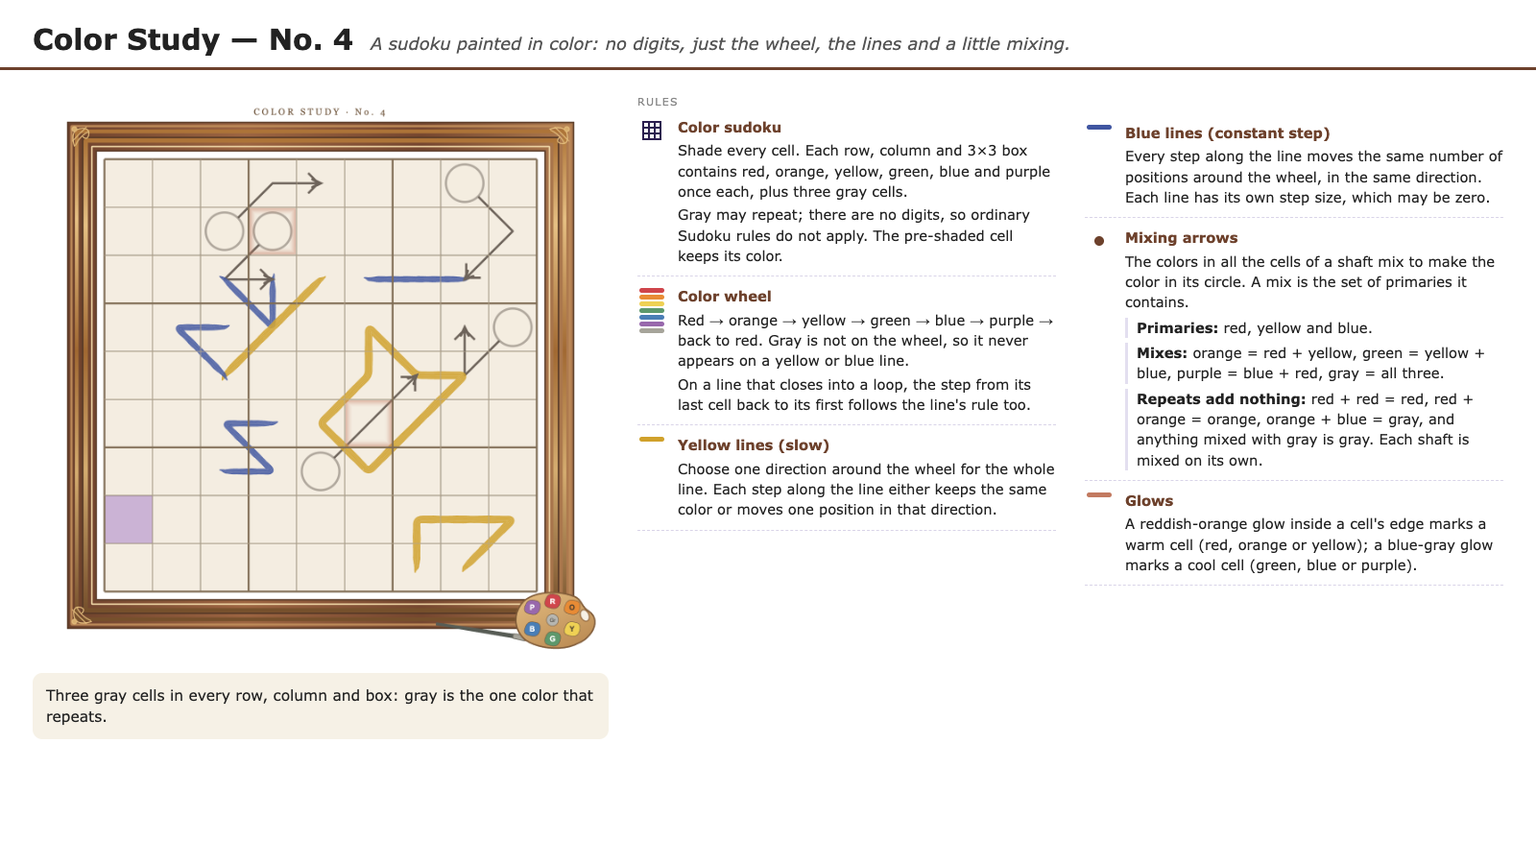
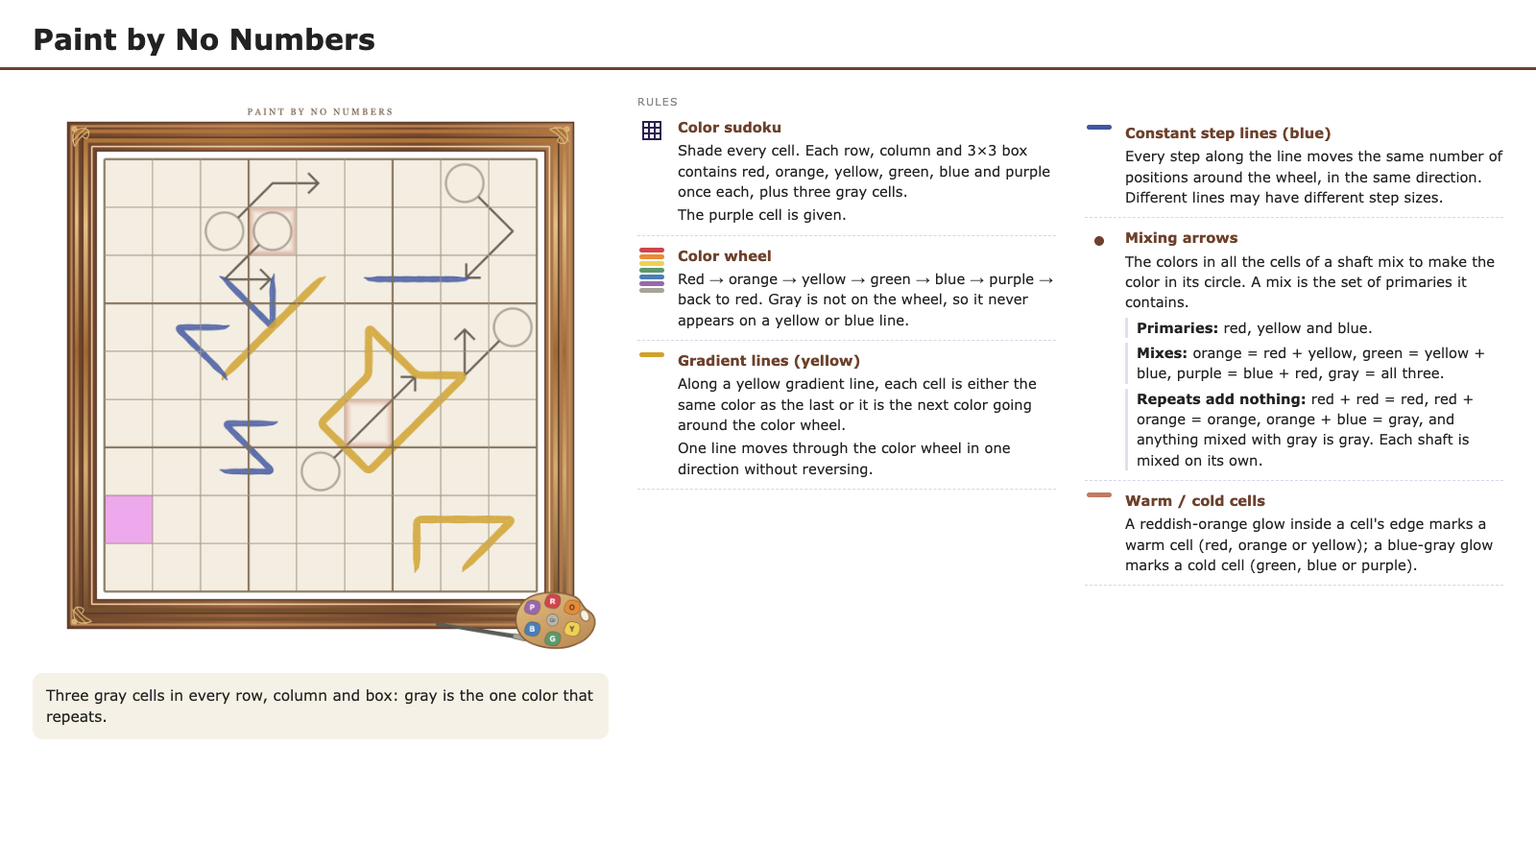
Drafts: Paint by No Numbers rules, title and links; Zeroed Out zero headings

diff --git a/t/color-study-4/index.html b/t/color-study-4/index.html
@@ -4,28 +4,28 @@
 <meta charset="utf-8">
 <meta name="robots" content="noindex, nofollow">
 <meta name="viewport" content="width=device-width, initial-scale=1">
-<meta property="og:title" content="Color Study — No. 4">
-<meta property="og:description" content="A sudoku painted in color: no digits, just the wheel, the lines and a little mixing. Draft of the Logic Masters page, for testing.">
+<meta property="og:title" content="Paint by No Numbers">
+<meta property="og:description" content="A sudoku in colors instead of digits. Draft of the Logic Masters page, for testing.">
 <meta property="og:image" content="https://berdy-puzzles.github.io/t/color-study-4/img/og.png">
 <meta property="og:url" content="https://berdy-puzzles.github.io/t/color-study-4/">
 <meta name="twitter:card" content="summary_large_image">
-<title>Color Study — No. 4 &mdash; Rätselportal (preview)</title>
+<title>Paint by No Numbers &mdash; Rätselportal (preview)</title>
 <link href="lmd/base.css" type="text/css" rel="stylesheet">
 <style type="text/css">html { background: #fff url("lmd/hashi.jpg") repeat; }</style>
 <link href="lmd/rp.css" type="text/css" rel="stylesheet">
 </head>
 <body>
 <div class="centercolumn"><div class="box">
-<div class="rp_titel"><h2>Color Study — No. 4</h2>
+<div class="rp_titel"><h2>Paint by No Numbers</h2>
 <span class="rp_eingestellt">(Published on 21. October 2026 by <a href="#">Berdy</a>)
 &mdash; <b>draft, not yet on Logic Masters</b></span></div>
 <div class="rp_html">
 <div style="max-width:900px;margin:16px auto;color:#222;">
-<p style="margin:4px auto 14px;max-width:640px;text-align:center;font-style:italic;color:#555;line-height:1.6;font-size:1.05em;">A sudoku painted in color: no digits, just the wheel, the lines and a little mixing.</p>
+<p style="margin:4px auto 14px;max-width:640px;text-align:center;font-style:italic;color:#555;line-height:1.6;font-size:1.05em;">Want the same puzzle with numbers? <a href="https://sudokupad.app/5dehyggpta">Play here</a></p>
 <div style="text-align:center;padding-bottom:0px;border-bottom:3px solid #6d412c;"></div>
 <div style="display:flex;flex-wrap:wrap;gap:22px;margin-top:18px;align-items:flex-start;">
-<div style="flex:1 1 330px;min-width:260px;"><a href="https://sudokupad.app/0reli61kmy"><img src="img/board.png" width="480" style="display:block;max-width:100%;height:auto;margin:0 auto;"></a><div style="text-align:center;"><div style="margin-top:16px;"><a href="https://sudokupad.app/0reli61kmy" style="display:inline-block;padding:8px 22px;border-radius:999px;background:#6d412c;color:#fff;border:2px solid #6d412c;font-weight:bold;text-decoration:none;">Play on SudokuPad &rarr;</a></div></div><div style="margin:14px 0 0;padding:10px 12px;border-radius:10px;background:#f6f1e6;line-height:1.5;font-size:0.95em;">Three gray cells in every row, column and box: gray is the one color that repeats.</div></div>
-<div style="flex:1 1 250px;min-width:230px;"><div style="font-size:11px;letter-spacing:0.12em;text-transform:uppercase;color:#888;margin-top:8px;">Rules</div><div style="display:flex;gap:12px;align-items:flex-start;padding:10px 0;border-bottom:1px dashed #d9d4e8;"><div style="flex:0 0 30px;padding-top:2px;text-align:center;"><span style="display:inline-grid;grid-template-columns:repeat(3,6px);grid-auto-rows:6px;vertical-align:middle;border:1px solid #2b1d4f;"><span style="border:1px solid #2b1d4f;"></span><span style="border:1px solid #2b1d4f;"></span><span style="border:1px solid #2b1d4f;"></span><span style="border:1px solid #2b1d4f;"></span><span style="border:1px solid #2b1d4f;"></span><span style="border:1px solid #2b1d4f;"></span><span style="border:1px solid #2b1d4f;"></span><span style="border:1px solid #2b1d4f;"></span><span style="border:1px solid #2b1d4f;"></span></span></div><div style="flex:1;line-height:1.45;font-size:0.95em;"><b style="color:#6d412c;">Color sudoku</b><div style="margin-top:3px;">Shade every cell. Each row, column and 3×3 box contains red, orange, yellow, green, blue and purple once each, plus three gray cells.</div><div style="margin-top:3px;">Gray may repeat; there are no digits, so ordinary Sudoku rules do not apply. The pre-shaded cell keeps its color.</div></div></div><div style="display:flex;gap:12px;align-items:flex-start;padding:10px 0;border-bottom:1px dashed #d9d4e8;"><div style="flex:0 0 30px;padding-top:2px;text-align:center;"><span style="display:block;margin:0 auto 2px;width:26px;height:5px;border-radius:3px;background:#cf454b;"></span><span style="display:block;margin:0 auto 2px;width:26px;height:5px;border-radius:3px;background:#e88b35;"></span><span style="display:block;margin:0 auto 2px;width:26px;height:5px;border-radius:3px;background:#efd154;"></span><span style="display:block;margin:0 auto 2px;width:26px;height:5px;border-radius:3px;background:#5d986c;"></span><span style="display:block;margin:0 auto 2px;width:26px;height:5px;border-radius:3px;background:#4a7eb5;"></span><span style="display:block;margin:0 auto 2px;width:26px;height:5px;border-radius:3px;background:#9868ac;"></span><span style="display:block;margin:0 auto 2px;width:26px;height:5px;border-radius:3px;background:#a6a49a;"></span></div><div style="flex:1;line-height:1.45;font-size:0.95em;"><b style="color:#6d412c;">Color wheel</b><div style="margin-top:3px;">Red → orange → yellow → green → blue → purple → back to red. Gray is not on the wheel, so it never appears on a yellow or blue line.</div><div style="margin-top:3px;">On a line that closes into a loop, the step from its last cell back to its first follows the line&#x27;s rule too.</div></div></div><div style="display:flex;gap:12px;align-items:flex-start;padding:10px 0;border-bottom:1px dashed #d9d4e8;"><div style="flex:0 0 30px;padding-top:2px;text-align:center;"><span style="display:block;margin:0 auto 2px;width:26px;height:5px;border-radius:3px;background:#d0a12b;"></span></div><div style="flex:1;line-height:1.45;font-size:0.95em;"><b style="color:#6d412c;">Yellow lines (slow)</b><div style="margin-top:3px;">Choose one direction around the wheel for the whole line. Each step along the line either keeps the same color or moves one position in that direction.</div></div></div><div style="display:flex;gap:12px;align-items:flex-start;padding:10px 0;border-bottom:1px dashed #d9d4e8;"><div style="flex:0 0 30px;padding-top:2px;text-align:center;"><span style="display:block;margin:0 auto 2px;width:26px;height:5px;border-radius:3px;background:#4056a1;"></span></div><div style="flex:1;line-height:1.45;font-size:0.95em;"><b style="color:#6d412c;">Blue lines (constant step)</b><div style="margin-top:3px;">Every step along the line moves the same number of positions around the wheel, in the same direction. Each line has its own step size, which may be zero.</div></div></div><div style="display:flex;gap:12px;align-items:flex-start;padding:10px 0;border-bottom:1px dashed #d9d4e8;"><div style="flex:0 0 30px;padding-top:2px;text-align:center;"><span style="display:inline-block;vertical-align:middle;width:10px;height:10px;border-radius:50%;background:#6d412c;"></span></div><div style="flex:1;line-height:1.45;font-size:0.95em;"><b style="color:#6d412c;">Mixing arrows</b><div style="margin-top:3px;">The colors in all the cells of a shaft mix to make the color in its circle. A mix is the set of primaries it contains.</div><div style="margin-top:5px;padding-left:9px;border-left:3px solid #e3dff0;"><b>Primaries:</b> red, yellow and blue.</div><div style="margin-top:5px;padding-left:9px;border-left:3px solid #e3dff0;"><b>Mixes:</b> orange = red + yellow, green = yellow + blue, purple = blue + red, gray = all three.</div><div style="margin-top:5px;padding-left:9px;border-left:3px solid #e3dff0;"><b>Repeats add nothing:</b> red + red = red, red + orange = orange, orange + blue = gray, and anything mixed with gray is gray. Each shaft is mixed on its own.</div></div></div><div style="display:flex;gap:12px;align-items:flex-start;padding:10px 0;border-bottom:1px dashed #d9d4e8;"><div style="flex:0 0 30px;padding-top:2px;text-align:center;"><span style="display:block;margin:0 auto 2px;width:26px;height:5px;border-radius:3px;background:#c27a60;"></span></div><div style="flex:1;line-height:1.45;font-size:0.95em;"><b style="color:#6d412c;">Glows</b><div style="margin-top:3px;">A reddish-orange glow inside a cell&#x27;s edge marks a warm cell (red, orange or yellow); a blue-gray glow marks a cool cell (green, blue or purple).</div></div></div></div>
+<div style="flex:1 1 330px;min-width:260px;"><a href="https://sudokupad.app/6kfpbr583g"><img src="img/board.png" width="480" style="display:block;max-width:100%;height:auto;margin:0 auto;"></a><div style="text-align:center;"><div style="margin-top:16px;"><a href="https://sudokupad.app/6kfpbr583g" style="display:inline-block;padding:8px 22px;border-radius:999px;background:#6d412c;color:#fff;border:2px solid #6d412c;font-weight:bold;text-decoration:none;">Play on SudokuPad &rarr;</a></div></div><div style="margin:14px 0 0;padding:10px 12px;border-radius:10px;background:#f6f1e6;line-height:1.5;font-size:0.95em;">Three gray cells in every row, column and box: gray is the one color that repeats.</div></div>
+<div style="flex:1 1 250px;min-width:230px;"><div style="font-size:11px;letter-spacing:0.12em;text-transform:uppercase;color:#888;margin-top:8px;">Rules</div><div style="display:flex;gap:12px;align-items:flex-start;padding:10px 0;border-bottom:1px dashed #d9d4e8;"><div style="flex:0 0 30px;padding-top:2px;text-align:center;"><span style="display:inline-grid;grid-template-columns:repeat(3,6px);grid-auto-rows:6px;vertical-align:middle;border:1px solid #2b1d4f;"><span style="border:1px solid #2b1d4f;"></span><span style="border:1px solid #2b1d4f;"></span><span style="border:1px solid #2b1d4f;"></span><span style="border:1px solid #2b1d4f;"></span><span style="border:1px solid #2b1d4f;"></span><span style="border:1px solid #2b1d4f;"></span><span style="border:1px solid #2b1d4f;"></span><span style="border:1px solid #2b1d4f;"></span><span style="border:1px solid #2b1d4f;"></span></span></div><div style="flex:1;line-height:1.45;font-size:0.95em;"><b style="color:#6d412c;">Color sudoku</b><div style="margin-top:3px;">Shade every cell. Each row, column and 3×3 box contains red, orange, yellow, green, blue and purple once each, plus three gray cells.</div><div style="margin-top:3px;">The purple cell is given.</div></div></div><div style="display:flex;gap:12px;align-items:flex-start;padding:10px 0;border-bottom:1px dashed #d9d4e8;"><div style="flex:0 0 30px;padding-top:2px;text-align:center;"><span style="display:block;margin:0 auto 2px;width:26px;height:5px;border-radius:3px;background:#cf454b;"></span><span style="display:block;margin:0 auto 2px;width:26px;height:5px;border-radius:3px;background:#e88b35;"></span><span style="display:block;margin:0 auto 2px;width:26px;height:5px;border-radius:3px;background:#efd154;"></span><span style="display:block;margin:0 auto 2px;width:26px;height:5px;border-radius:3px;background:#5d986c;"></span><span style="display:block;margin:0 auto 2px;width:26px;height:5px;border-radius:3px;background:#4a7eb5;"></span><span style="display:block;margin:0 auto 2px;width:26px;height:5px;border-radius:3px;background:#9868ac;"></span><span style="display:block;margin:0 auto 2px;width:26px;height:5px;border-radius:3px;background:#a6a49a;"></span></div><div style="flex:1;line-height:1.45;font-size:0.95em;"><b style="color:#6d412c;">Color wheel</b><div style="margin-top:3px;">Red → orange → yellow → green → blue → purple → back to red. Gray is not on the wheel, so it never appears on a yellow or blue line.</div></div></div><div style="display:flex;gap:12px;align-items:flex-start;padding:10px 0;border-bottom:1px dashed #d9d4e8;"><div style="flex:0 0 30px;padding-top:2px;text-align:center;"><span style="display:block;margin:0 auto 2px;width:26px;height:5px;border-radius:3px;background:#d0a12b;"></span></div><div style="flex:1;line-height:1.45;font-size:0.95em;"><b style="color:#6d412c;">Gradient lines (yellow)</b><div style="margin-top:3px;">Along a yellow gradient line, each cell is either the same color as the last or it is the next color going around the color wheel.</div><div style="margin-top:3px;">One line moves through the color wheel in one direction without reversing.</div></div></div><div style="display:flex;gap:12px;align-items:flex-start;padding:10px 0;border-bottom:1px dashed #d9d4e8;"><div style="flex:0 0 30px;padding-top:2px;text-align:center;"><span style="display:block;margin:0 auto 2px;width:26px;height:5px;border-radius:3px;background:#4056a1;"></span></div><div style="flex:1;line-height:1.45;font-size:0.95em;"><b style="color:#6d412c;">Constant step lines (blue)</b><div style="margin-top:3px;">Every step along the line moves the same number of positions around the wheel, in the same direction. Different lines may have different step sizes.</div></div></div><div style="display:flex;gap:12px;align-items:flex-start;padding:10px 0;border-bottom:1px dashed #d9d4e8;"><div style="flex:0 0 30px;padding-top:2px;text-align:center;"><span style="display:inline-block;vertical-align:middle;width:10px;height:10px;border-radius:50%;background:#6d412c;"></span></div><div style="flex:1;line-height:1.45;font-size:0.95em;"><b style="color:#6d412c;">Mixing arrows</b><div style="margin-top:3px;">The colors in all the cells of a shaft mix to make the color in its circle. A mix is the set of primaries it contains.</div><div style="margin-top:5px;padding-left:9px;border-left:3px solid #e3dff0;"><b>Primaries:</b> red, yellow and blue.</div><div style="margin-top:5px;padding-left:9px;border-left:3px solid #e3dff0;"><b>Mixes:</b> orange = red + yellow, green = yellow + blue, purple = blue + red, gray = all three.</div><div style="margin-top:5px;padding-left:9px;border-left:3px solid #e3dff0;"><b>Repeats add nothing:</b> red + red = red, red + orange = orange, orange + blue = gray, and anything mixed with gray is gray. Each shaft is mixed on its own.</div></div></div><div style="display:flex;gap:12px;align-items:flex-start;padding:10px 0;border-bottom:1px dashed #d9d4e8;"><div style="flex:0 0 30px;padding-top:2px;text-align:center;"><span style="display:block;margin:0 auto 2px;width:26px;height:5px;border-radius:3px;background:#c27a60;"></span></div><div style="flex:1;line-height:1.45;font-size:0.95em;"><b style="color:#6d412c;">Warm / cold cells</b><div style="margin-top:3px;">A reddish-orange glow inside a cell&#x27;s edge marks a warm cell (red, orange or yellow); a blue-gray glow marks a cold cell (green, blue or purple).</div></div></div></div>
 </div>
 
 <div style="display:flex;flex-wrap:wrap;justify-content:space-between;align-items:center;gap:12px;margin-top:22px;padding-top:12px;border-top:1px solid #e3dff0;"><a href="https://berdy-puzzles.github.io/" style="color:#6d412c;text-decoration:none;font-weight:bold;">More puzzles by berdy &rarr;</a><a href="https://berdy-puzzles.github.io/lucky/" style="text-decoration:none;"><span style="position:relative;display:flex;align-items:center;gap:10px;width:171px;height:39px;box-sizing:border-box;padding:0 10px 0 8px;border-radius:20px;background:linear-gradient(90deg, #ff5f6d, #ffb347 20%, #f9f871 40%, #5ee7a0 60%, #4facfe 80%, #a66cff);box-shadow:0 1.5px 2px rgba(0,0,0,0.3);overflow:hidden;"><span style="position:absolute;left:4px;right:4px;top:3px;height:14px;border-radius:7px;background:rgba(255,255,255,0.25);"></span><span style="position:relative;"><span style="display:inline-grid;grid-template-columns:repeat(3,9px);grid-auto-rows:9px;border:1.75px solid #2b1d4f;border-radius:2px;background:#fff;box-shadow:0 0 0 1px #fff, 0 1.5px 2px rgba(0,0,0,0.3);"><span style="display:block;background:#ff5f6d;box-shadow:inset 0 0 0 0.5px #2b1d4f;text-align:center;font:900 9px/9px Arial, sans-serif;color:#2b1d4f;"></span><span style="display:block;background:#ffb347;box-shadow:inset 0 0 0 0.5px #2b1d4f;text-align:center;font:900 9px/9px Arial, sans-serif;color:#2b1d4f;"></span><span style="display:block;background:#f9f871;box-shadow:inset 0 0 0 0.5px #2b1d4f;text-align:center;font:900 9px/9px Arial, sans-serif;color:#2b1d4f;"></span><span style="display:block;background:#5ee7a0;box-shadow:inset 0 0 0 0.5px #2b1d4f;text-align:center;font:900 9px/9px Arial, sans-serif;color:#2b1d4f;"></span><span style="display:block;background:#ffffff;box-shadow:inset 0 0 0 0.5px #2b1d4f;text-align:center;font:900 9px/9px Arial, sans-serif;color:#2b1d4f;">?</span><span style="display:block;background:#a66cff;box-shadow:inset 0 0 0 0.5px #2b1d4f;text-align:center;font:900 9px/9px Arial, sans-serif;color:#2b1d4f;"></span><span style="display:block;background:#ff7eb3;box-shadow:inset 0 0 0 0.5px #2b1d4f;text-align:center;font:900 9px/9px Arial, sans-serif;color:#2b1d4f;"></span><span style="display:block;background:#7afcff;box-shadow:inset 0 0 0 0.5px #2b1d4f;text-align:center;font:900 9px/9px Arial, sans-serif;color:#2b1d4f;"></span><span style="display:block;background:#ffd36e;box-shadow:inset 0 0 0 0.5px #2b1d4f;text-align:center;font:900 9px/9px Arial, sans-serif;color:#2b1d4f;"></span></span></span><span style="position:relative;flex:1;text-align:center;color:#fff;font:800 13.5px/1 Arial Rounded MT Bold, Arial, sans-serif;text-shadow:-1.5px -1.5px 0 #2b1d4f, -1.5px 0px 0 #2b1d4f, -1.5px 1.5px 0 #2b1d4f, 0px -1.5px 0 #2b1d4f, 0px 1.5px 0 #2b1d4f, 1.5px -1.5px 0 #2b1d4f, 1.5px 0px 0 #2b1d4f, 1.5px 1.5px 0 #2b1d4f;white-space:nowrap;">Feeling lucky?</span></span></a></div>

diff --git a/t/zeroed-out/index.html b/t/zeroed-out/index.html
@@ -25,7 +25,7 @@
 <div style="text-align:center;padding-bottom:0px;border-bottom:3px solid transparent;border-image:linear-gradient(90deg, #ff5f6d, #ffb347, #f9f871, #5ee7a0, #4facfe, #a66cff) 1;"></div>
 <div style="display:flex;flex-wrap:wrap;gap:22px;margin-top:18px;align-items:flex-start;">
 <div style="flex:1 1 330px;min-width:260px;"><a href="https://sudokupad.app/bz3iok1lqv"><img src="img/board.png" width="480" style="display:block;max-width:100%;height:auto;margin:0 auto;"></a><div style="text-align:center;"><div style="margin-top:16px;"><a href="https://sudokupad.app/bz3iok1lqv" style="display:inline-block;padding:8px 22px;border-radius:999px;background:#2b1d4f;color:#fff;border:2px solid #2b1d4f;font-weight:bold;text-decoration:none;">Play on SudokuPad &rarr;</a></div></div></div>
-<div style="flex:1 1 250px;min-width:230px;"><div style="font-size:11px;letter-spacing:0.12em;text-transform:uppercase;color:#888;margin-top:8px;">Rules</div><div style="display:flex;gap:12px;align-items:flex-start;padding:10px 0;border-bottom:1px dashed #d9d4e8;"><div style="flex:0 0 30px;padding-top:2px;text-align:center;"><span style="display:inline-grid;grid-template-columns:repeat(3,6px);grid-auto-rows:6px;vertical-align:middle;border:1px solid #2b1d4f;"><span style="border:1px solid #2b1d4f;"></span><span style="border:1px solid #2b1d4f;"></span><span style="border:1px solid #2b1d4f;"></span><span style="border:1px solid #2b1d4f;"></span><span style="border:1px solid #2b1d4f;"></span><span style="border:1px solid #2b1d4f;"></span><span style="border:1px solid #2b1d4f;"></span><span style="border:1px solid #2b1d4f;"></span><span style="border:1px solid #2b1d4f;"></span></span></div><div style="flex:1;line-height:1.45;font-size:0.95em;"><b style="color:#2b1d4f;">Normal sudoku</b><div style="margin-top:3px;">Normal sudoku rules apply, except for the zeros below.</div></div></div><div style="display:flex;gap:12px;align-items:flex-start;padding:10px 0;border-bottom:1px dashed #d9d4e8;"><div style="flex:0 0 30px;padding-top:2px;text-align:center;"><span style="display:inline-block;vertical-align:middle;width:10px;height:10px;border-radius:50%;background:#2b1d4f;"></span></div><div style="flex:1;line-height:1.45;font-size:0.95em;"><b style="color:#2b1d4f;">Zeros</b><div style="margin-top:5px;padding-left:9px;border-left:3px solid #e3dff0;">Place 9 zeros in the grid.</div><div style="margin-top:5px;padding-left:9px;border-left:3px solid #e3dff0;">Each zero replaces one of the digits 1–9, and each digit is replaced exactly once.</div><div style="margin-top:5px;padding-left:9px;border-left:3px solid #e3dff0;"><b>One zero per box:</b> Each 3×3 box contains exactly one zero.</div><div style="margin-top:5px;padding-left:9px;border-left:3px solid #e3dff0;"><b>No isolated zeros:</b> Every zero shares a row or column with at least one other zero.<div style="margin-top:3px;"><span style="color: #666;"><i>Example:</i> One box will contain the digits 0, 2, 3, 4, 5, 6, 7, 8 and 9. Its zero must share a row or column with another zero, but it may not share a row, column or box with a 1 (the digit it replaced).</span></div></div></div></div></div>
+<div style="flex:1 1 250px;min-width:230px;"><div style="font-size:11px;letter-spacing:0.12em;text-transform:uppercase;color:#888;margin-top:8px;">Rules</div><div style="display:flex;gap:12px;align-items:flex-start;padding:10px 0;border-bottom:1px dashed #d9d4e8;"><div style="flex:0 0 30px;padding-top:2px;text-align:center;"><span style="display:inline-grid;grid-template-columns:repeat(3,6px);grid-auto-rows:6px;vertical-align:middle;border:1px solid #2b1d4f;"><span style="border:1px solid #2b1d4f;"></span><span style="border:1px solid #2b1d4f;"></span><span style="border:1px solid #2b1d4f;"></span><span style="border:1px solid #2b1d4f;"></span><span style="border:1px solid #2b1d4f;"></span><span style="border:1px solid #2b1d4f;"></span><span style="border:1px solid #2b1d4f;"></span><span style="border:1px solid #2b1d4f;"></span><span style="border:1px solid #2b1d4f;"></span></span></div><div style="flex:1;line-height:1.45;font-size:0.95em;"><b style="color:#2b1d4f;">Normal sudoku</b><div style="margin-top:3px;">Normal sudoku rules apply, except for the zeros below.</div></div></div><div style="display:flex;gap:12px;align-items:flex-start;padding:10px 0;border-bottom:1px dashed #d9d4e8;"><div style="flex:0 0 30px;padding-top:2px;text-align:center;"><span style="display:inline-block;vertical-align:middle;width:10px;height:10px;border-radius:50%;background:#2b1d4f;"></span></div><div style="flex:1;line-height:1.45;font-size:0.95em;"><b style="color:#2b1d4f;">Zeros</b><div style="margin-top:5px;padding-left:9px;border-left:3px solid #e3dff0;"><b>Nine zeros:</b> Place 9 zeros in the grid.</div><div style="margin-top:5px;padding-left:9px;border-left:3px solid #e3dff0;"><b>Each digit replaced once:</b> Each zero replaces one of the digits 1–9, and each digit is replaced exactly once.</div><div style="margin-top:5px;padding-left:9px;border-left:3px solid #e3dff0;"><b>One zero per box:</b> Each 3×3 box contains exactly one zero.</div><div style="margin-top:5px;padding-left:9px;border-left:3px solid #e3dff0;"><b>No isolated zeros:</b> Every zero shares a row or column with at least one other zero.<div style="margin-top:3px;"><span style="color: #666;"><i>Example:</i> One box will contain the digits 0, 2, 3, 4, 5, 6, 7, 8 and 9. Its zero must share a row or column with another zero, but it may not share a row, column or box with a 1 (the digit it replaced).</span></div></div></div></div></div>
 </div>
 
 <div style="display:flex;flex-wrap:wrap;justify-content:space-between;align-items:center;gap:12px;margin-top:22px;padding-top:12px;border-top:1px solid #e3dff0;"><a href="https://berdy-puzzles.github.io/" style="color:#2b1d4f;text-decoration:none;font-weight:bold;">More puzzles by berdy &rarr;</a><a href="https://berdy-puzzles.github.io/lucky/" style="text-decoration:none;"><span style="position:relative;display:flex;align-items:center;gap:10px;width:171px;height:39px;box-sizing:border-box;padding:0 10px 0 8px;border-radius:20px;background:linear-gradient(90deg, #ff5f6d, #ffb347 20%, #f9f871 40%, #5ee7a0 60%, #4facfe 80%, #a66cff);box-shadow:0 1.5px 2px rgba(0,0,0,0.3);overflow:hidden;"><span style="position:absolute;left:4px;right:4px;top:3px;height:14px;border-radius:7px;background:rgba(255,255,255,0.25);"></span><span style="position:relative;"><span style="display:inline-grid;grid-template-columns:repeat(3,9px);grid-auto-rows:9px;border:1.75px solid #2b1d4f;border-radius:2px;background:#fff;box-shadow:0 0 0 1px #fff, 0 1.5px 2px rgba(0,0,0,0.3);"><span style="display:block;background:#ff5f6d;box-shadow:inset 0 0 0 0.5px #2b1d4f;text-align:center;font:900 9px/9px Arial, sans-serif;color:#2b1d4f;"></span><span style="display:block;background:#ffb347;box-shadow:inset 0 0 0 0.5px #2b1d4f;text-align:center;font:900 9px/9px Arial, sans-serif;color:#2b1d4f;"></span><span style="display:block;background:#f9f871;box-shadow:inset 0 0 0 0.5px #2b1d4f;text-align:center;font:900 9px/9px Arial, sans-serif;color:#2b1d4f;"></span><span style="display:block;background:#5ee7a0;box-shadow:inset 0 0 0 0.5px #2b1d4f;text-align:center;font:900 9px/9px Arial, sans-serif;color:#2b1d4f;"></span><span style="display:block;background:#ffffff;box-shadow:inset 0 0 0 0.5px #2b1d4f;text-align:center;font:900 9px/9px Arial, sans-serif;color:#2b1d4f;">?</span><span style="display:block;background:#a66cff;box-shadow:inset 0 0 0 0.5px #2b1d4f;text-align:center;font:900 9px/9px Arial, sans-serif;color:#2b1d4f;"></span><span style="display:block;background:#ff7eb3;box-shadow:inset 0 0 0 0.5px #2b1d4f;text-align:center;font:900 9px/9px Arial, sans-serif;color:#2b1d4f;"></span><span style="display:block;background:#7afcff;box-shadow:inset 0 0 0 0.5px #2b1d4f;text-align:center;font:900 9px/9px Arial, sans-serif;color:#2b1d4f;"></span><span style="display:block;background:#ffd36e;box-shadow:inset 0 0 0 0.5px #2b1d4f;text-align:center;font:900 9px/9px Arial, sans-serif;color:#2b1d4f;"></span></span></span><span style="position:relative;flex:1;text-align:center;color:#fff;font:800 13.5px/1 Arial Rounded MT Bold, Arial, sans-serif;text-shadow:-1.5px -1.5px 0 #2b1d4f, -1.5px 0px 0 #2b1d4f, -1.5px 1.5px 0 #2b1d4f, 0px -1.5px 0 #2b1d4f, 0px 1.5px 0 #2b1d4f, 1.5px -1.5px 0 #2b1d4f, 1.5px 0px 0 #2b1d4f, 1.5px 1.5px 0 #2b1d4f;white-space:nowrap;">Feeling lucky?</span></span></a></div>
